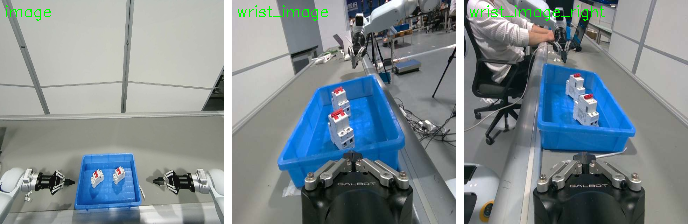
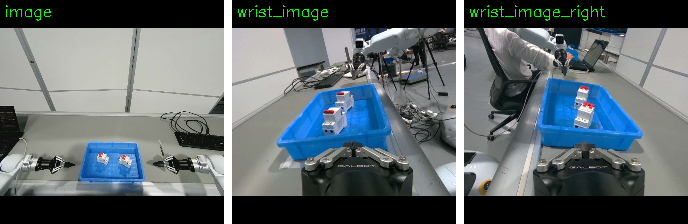
evidence: 10-16 traj 喂养链帧证（三视图活/letterbox 对/映射对）
--dump-frames 落盘判读件 evidence/20261016_traj_feed_dump/；头图托盘宽占比
0.66 vs 训练 0.31=托盘仍 2.1× 近（原工位即该 OOD 土壤）。probe_saw_A1 图随
探针重跑更新。

diff --git a/evidence/20261016_traj_feed_dump/README.md b/evidence/20261016_traj_feed_dump/README.md
@@ -1,0 +1,41 @@
+# 20261016 traj 线逐推理帧落盘判读（dry 跑 135739）
+
+数据：`logs/frames_traj_20261016_135739/`（9 推理 ×3 视图，letterbox224 后模型实际输入）
+日志：`logs/loop_traj_20261016_135739.log`（dry 彩排 9 块，未下发，q 退出）
+对照件：`evidence/20261010_pick_aim_diff/`（dataset_frames=训练分布，live_frames=10-10 现场）
+
+## ① 喂养链健康谱（此状态下全绿）
+
+| 项 | 结果 |
+|---|---|
+| 活图 | 三视图相邻推理平均像素差 0.9-1.7（非冻结） |
+| 黑帧 | 无（全图 mean 84-114，内容带 std 50-56） |
+| letterbox | 上下 28px 黑条均值 0.0，在位对齐训练变换 |
+| 视图映射 | 头=桌面广角 / 左腕=左视 / 右腕=右视近景，互不混淆 |
+
+## ② 场景 OOD 定量（头图蓝色托盘掩膜）
+
+| 场景 | 托盘宽占比 | 托盘中心高(内容带) | 物件数 |
+|---|---|---|---|
+| 训练数据集 ep0 | **0.31** | 0.85（远位） | 3-4 |
+| 10-10 现场（当时判 OOD） | 0.63 | 0.84 | 2 |
+| **今天 135739** | **0.66** | 0.83 | **2** |
+
+结论：**当前场景=托盘仍比训练近 ~2.1×、物件 2 vs 3-4**，与 10-10 判罚同水平
+（「搬回原工位」的原工位本身就处于该 OOD，非新漂移）。
+
+## 判读
+
+- 部署喂养链（取图/letterbox/映射）在该 dry 状态无罪——「加载错权重/图像处理错」
+  两疑均被本组帧直接排除（同 ckpt loop 线能抓，亦反证权重与喂图）。
+- 伸歪/固定位空抓的常驻土壤=场景 OOD ×（10-10 探针实锤的）视觉-臂接地微弱：
+  模型看到 2× 近的托盘仍按边际轨迹伸手；traj 线逐行忠实流式、无近阻尼，
+  误差不收敛；loop 线近阻尼慢速重规划累积转向故能抓（深夜三结论一致）。
+
+## 最便宜判别实验（未跑）
+
+**把托盘推远至训练距离**（头图托盘宽占比 ≈0.31，即再远约一倍），同配方 traj 再跑：
+伸歪显著好转 ⇒ 场景距离为主因坐实；仍歪 ⇒ 转执行侧（loop 近阻尼移植 traj）。
+
+复现：`run_g1_loop_traj.py … --dump-frames`（帧落盘 logs/frames_traj_<ts>/）；
+托盘量测：蓝掩膜 HSV(90-125,80+,60+) 取 bbox 宽/帧宽。
